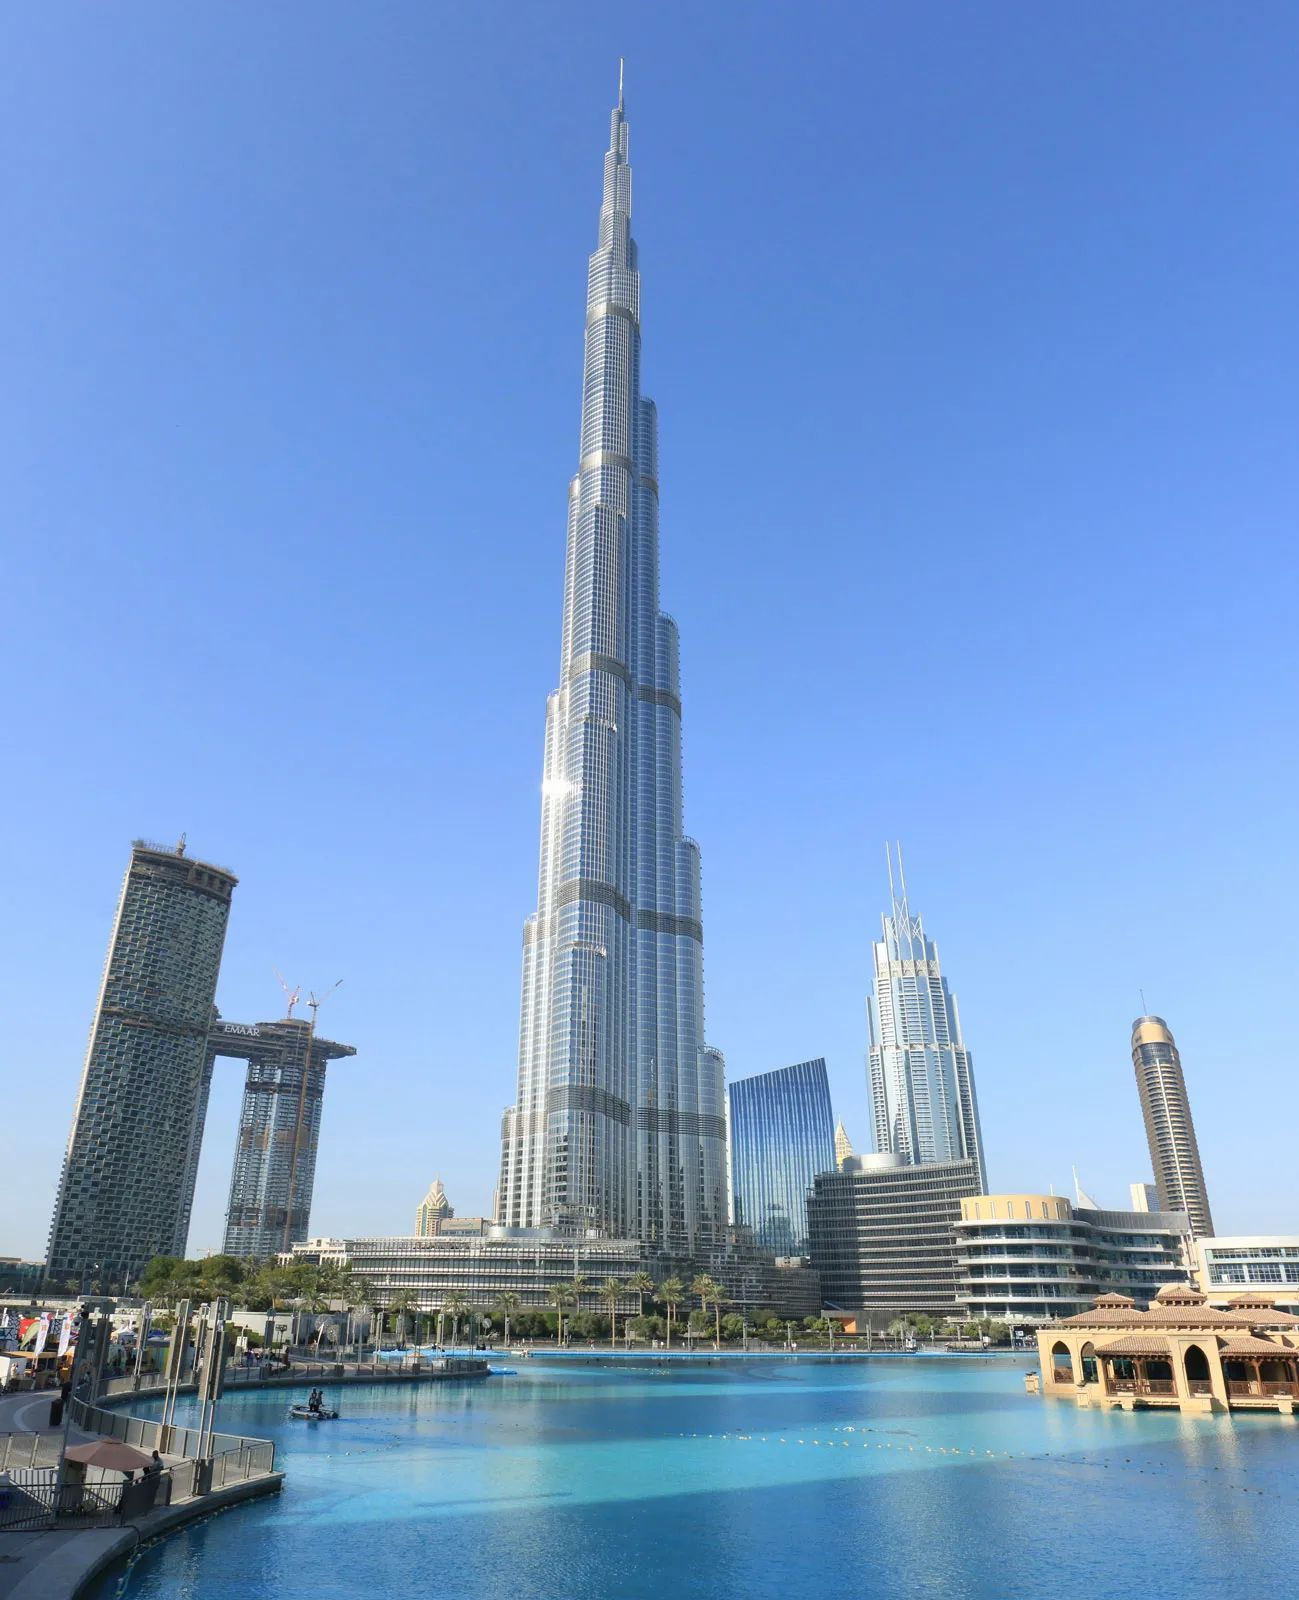
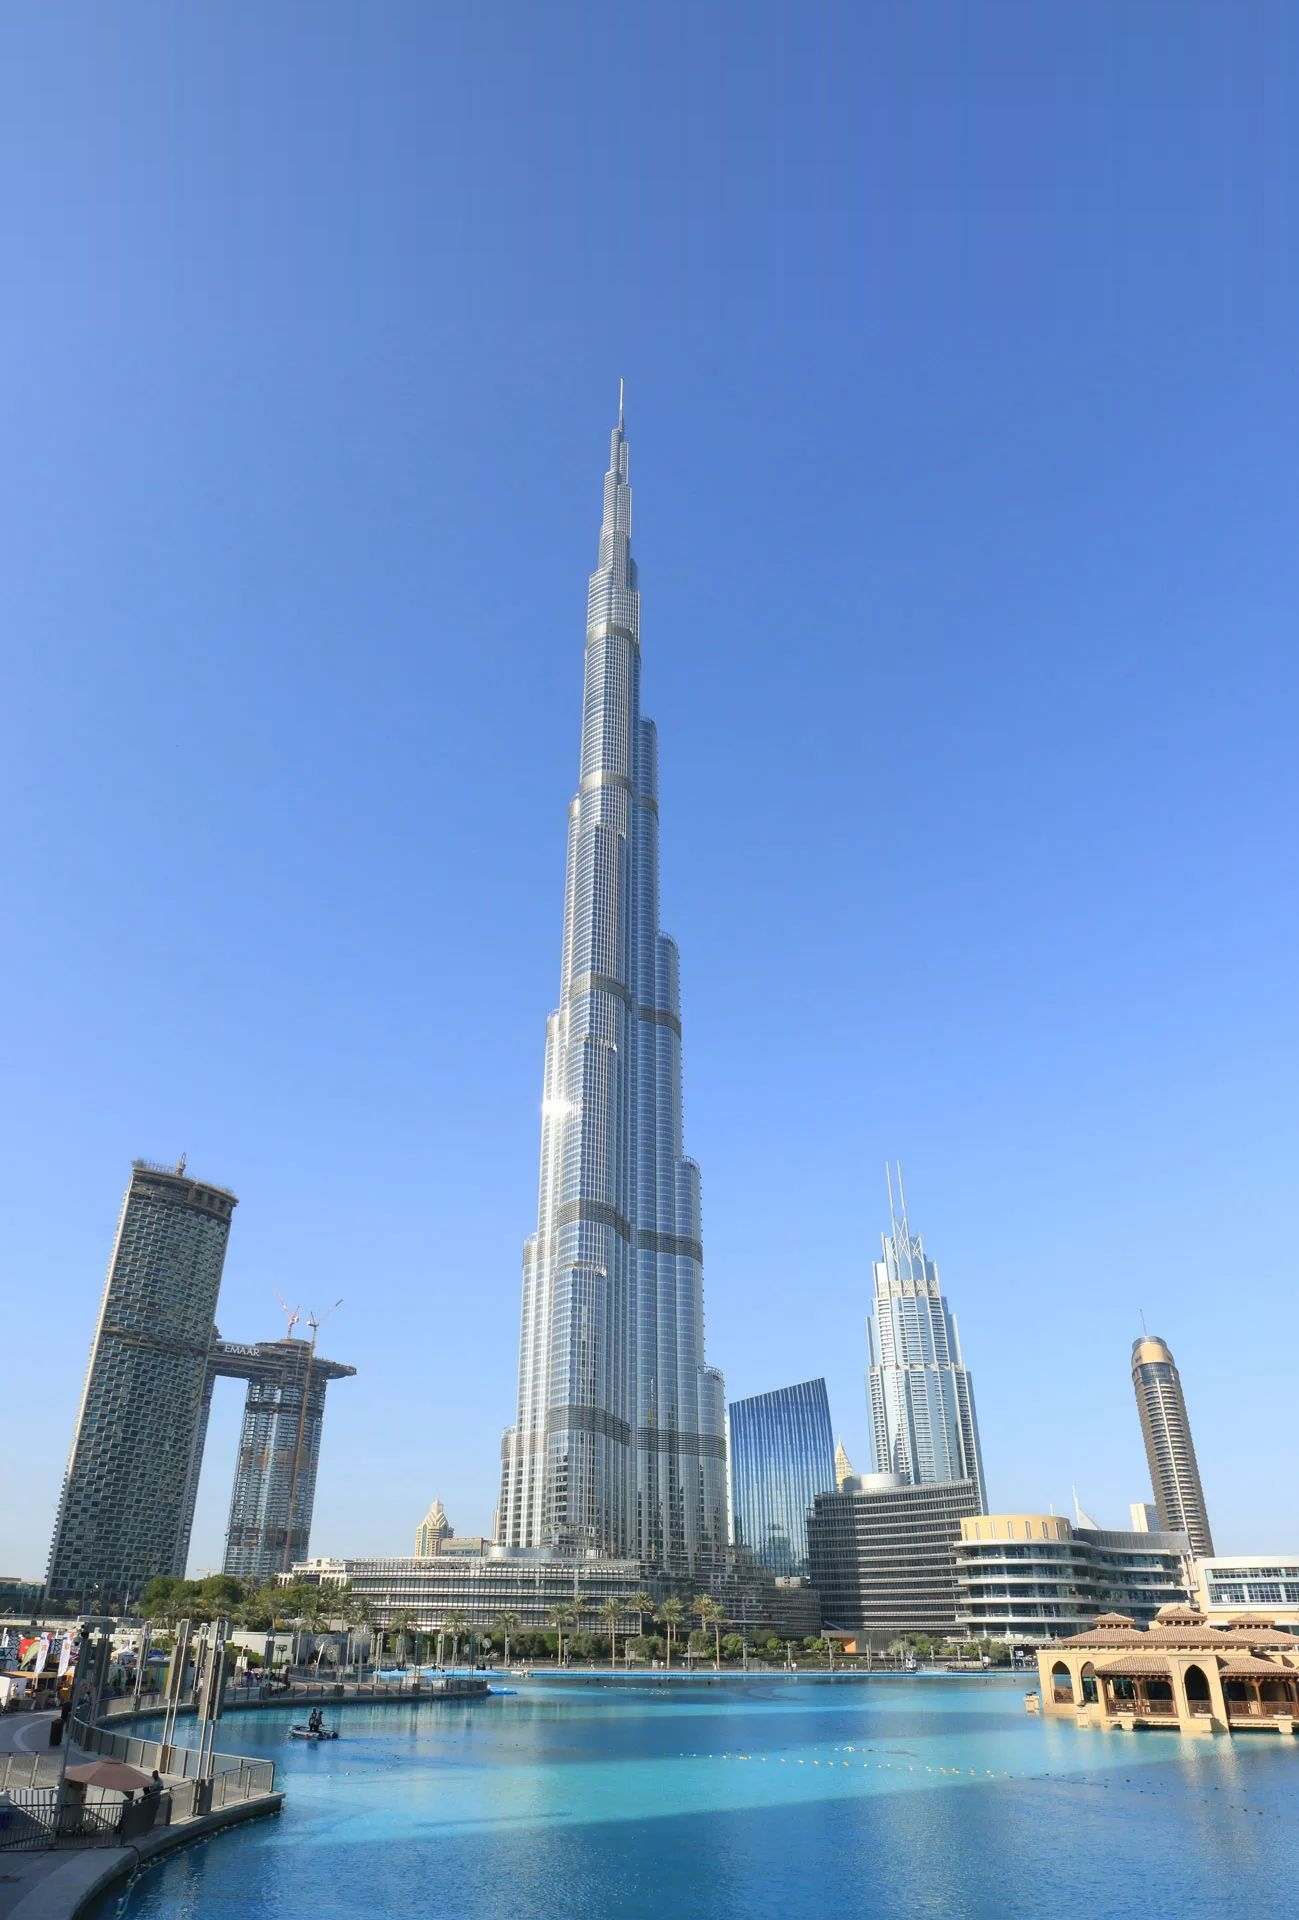
Push the backdrop down by extending the sky in the image
Gives the nav clear sky behind it. First tried holding the photo at
90% height and filling the gap with a colour-matched CSS gradient;
that seamed, because sampling the sky across the full image width
includes darker edges the backdrop crops away.

Instead the sky is extended inside the image: canvas grows 20% at the
top and each column continues upward from its own top pixels, with a
7% darkening to follow the natural gradient. No edge to match, so no
seam possible. CSS back to a single cover layer.

1299x1600 -> 1299x1920, 204kB -> 212kB.

Changed region(s): [[0.0, 0.0625, 1.0, 1.0]]

diff --git a/src/data/experiences.js b/src/data/experiences.js
@@ -34,5 +34,7 @@ export const EXPERIENCES = [
 
 export const HERO_BACKDROP = {
   src: `${base}images/hero-tower.jpg`,
-  tint: 'linear-gradient(175deg, #4b9bd4 0%, #8cc3e4 52%, #cfe3ee 100%)',
+  // Doubles as the sky strip above the photo and the fallback if it fails to
+  // load, so the top stops are sampled from the image's own top rows (#6087d2).
+  tint: 'linear-gradient(180deg, #5d84d0 0%, #6087d2 12%, #8ab9e0 58%, #cfe3ee 100%)',
 }

diff --git a/src/App.css b/src/App.css
@@ -11,6 +11,9 @@
   position: absolute;
   inset: 0 0 auto 0;
   height: 74%;
+  /* The sky is extended inside the image itself, so the spire clears the nav
+     without a second layer to colour-match (that approach seamed). Back to a
+     single cover layer anchored top. */
   background-size: cover;
   background-position: center top;
   background-repeat: no-repeat;

diff --git a/claude/checkpoints/checkpoint-08-tower-backdrop.md b/claude/checkpoints/checkpoint-08-tower-backdrop.md
@@ -32,3 +32,37 @@ backdrops needed the fade to *conceal* a crop; this one is improved by it.
 The spire tip lands in the nav row, threading between the wordmark and the globe. Reads fine
 and arguably ties the nav into the image. Raised with the designer; pushing the backdrop down
 slightly is the fix if she wants clear sky behind the nav.
+
+---
+
+## Follow-up — push the backdrop down
+
+**Direction:** "Yes push it down" (clear sky behind the nav).
+
+### First attempt, wrong
+
+Held the photo at `background-size: auto 90%` anchored bottom, and filled the ~10% strip it
+vacated with a CSS gradient colour-matched to the sky. Sampled the image's top rows to get
+`#6087d2` and built the gradient from it.
+
+**It seamed anyway.** The sample averaged the sky across the *full* image width, but the
+backdrop crops horizontally — so the average included darker left and right edges that are
+never on screen. The strip was measurably correct and visibly wrong.
+
+### Second attempt, correct
+
+Extended the sky **inside the image**: the canvas grows 20% at the top, and each column is
+continued upward from the average of its own top three pixels, with a 7% darkening toward the
+very top to follow the sky's natural gradient.
+
+Because every column extends from itself, horizontal variation carries through and there is
+no edge to colour-match. The seam cannot occur rather than being tuned until it stops showing.
+CSS reverted to a single `cover` layer anchored top.
+
+1299×1600 → 1299×1920. 204 kB → 212 kB.
+
+### Method note
+
+Both attempts "worked" at the first glance. The difference only appeared on zooming the
+junction. Matching a colour across a hard edge is fragile — continuing the data across it is
+not.
